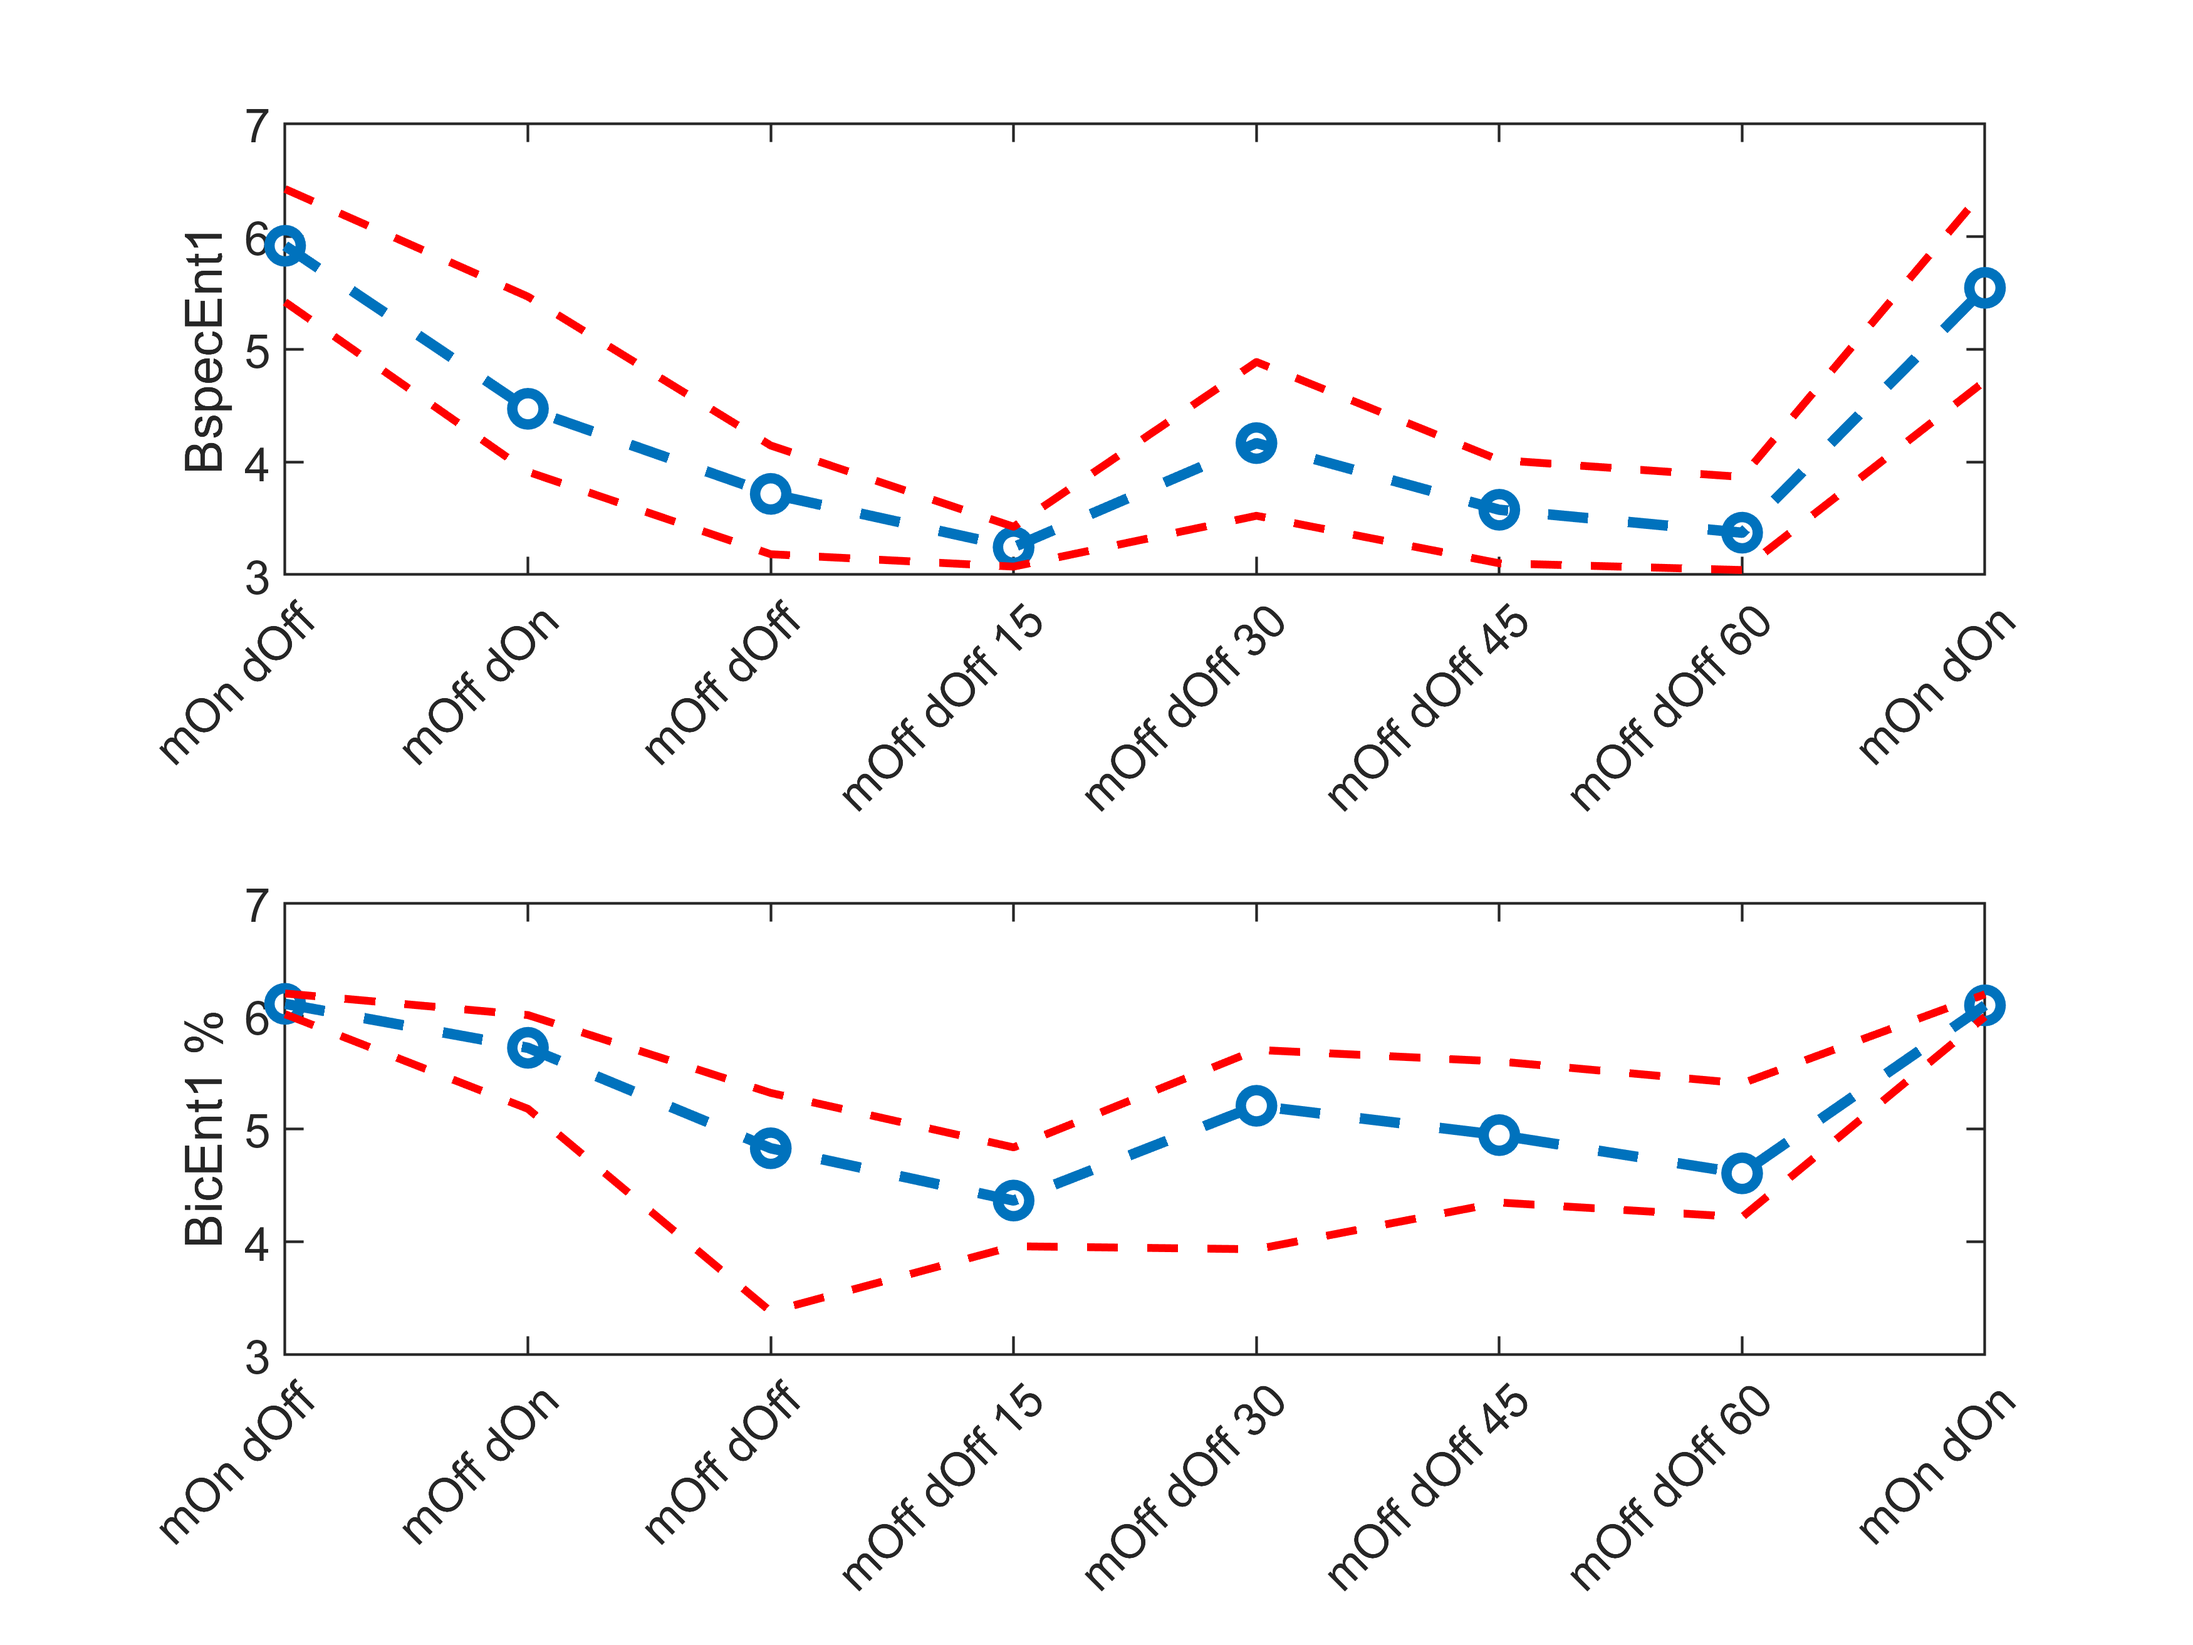
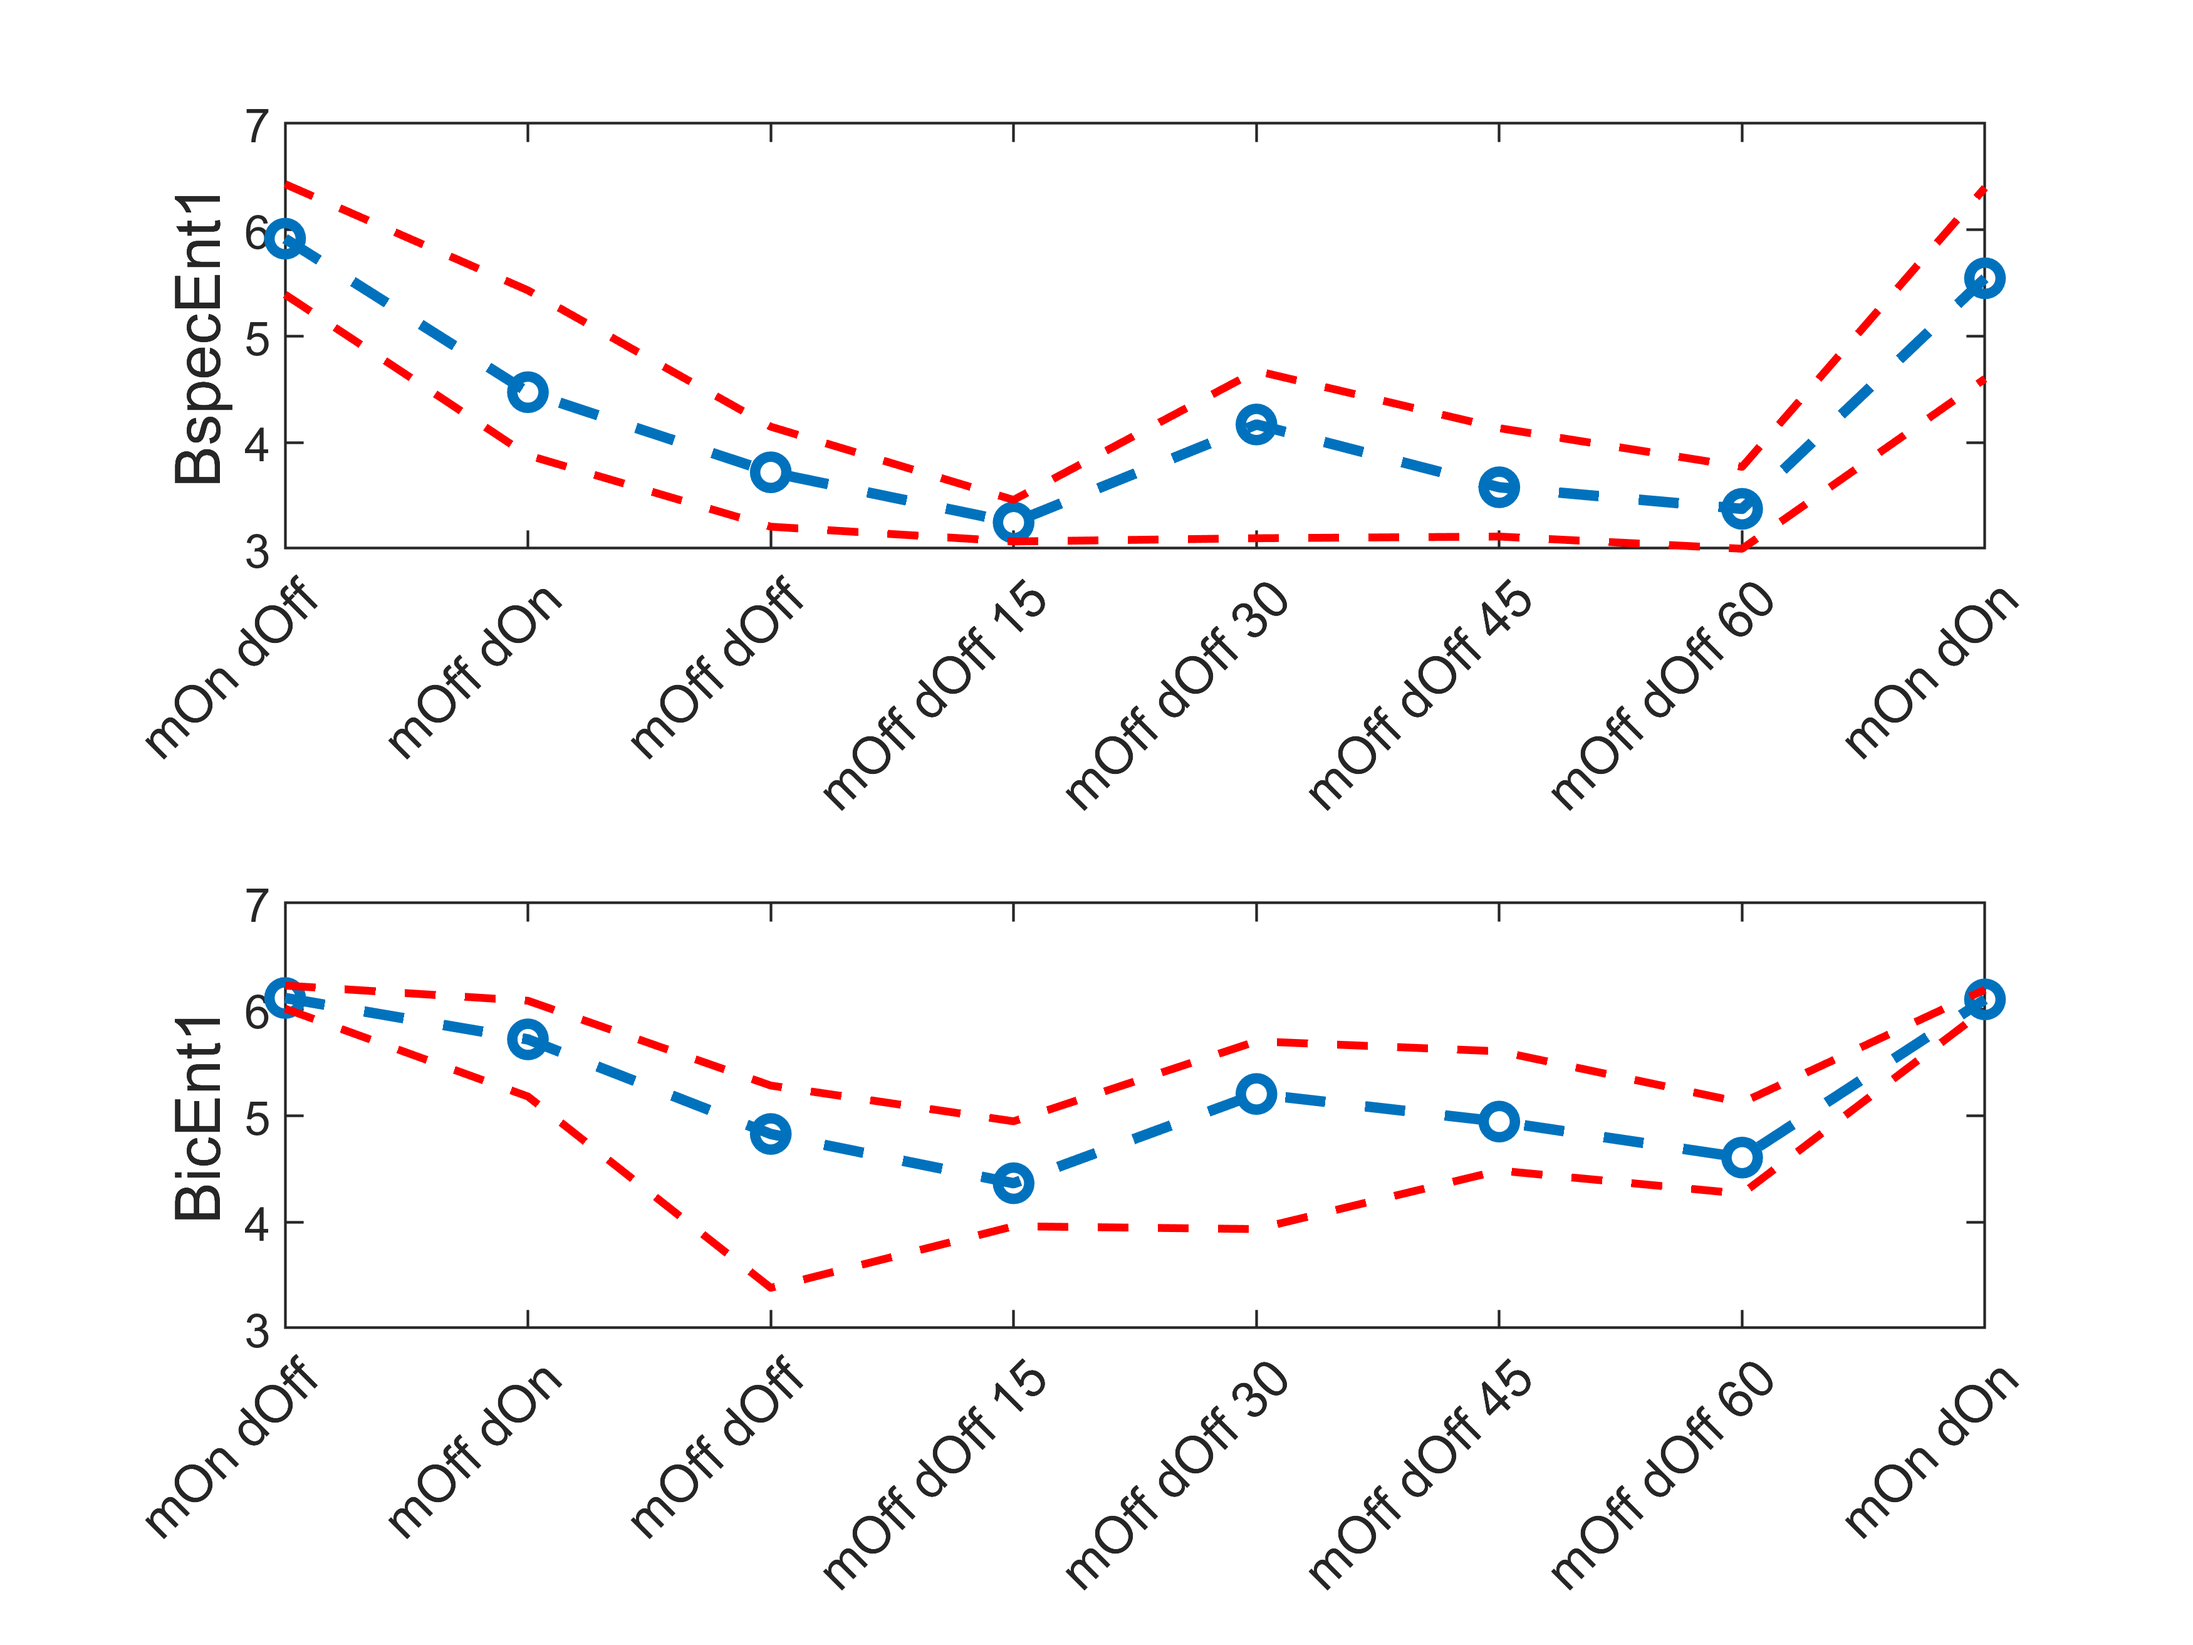
update

diff --git a/Feature Extraction/time_analysis.m b/Feature Extraction/time_analysis.m
@@ -1,0 +1,212 @@
+%% Bispectral Analysis of Parkinsonian Rest Tremor: New Characterization
+%% and Classification Insights Pre-/Post-DBS and Medication Treatment
+%
+% In this script the plots that illustrate the dynamic nature of the tremor as
+% presented through the extracted features (as shown in figure 5 of 
+% ( https://doi.org/10.36227/techrxiv.19589728.v1)), are extracted and saved.
+
+%-----------------------------------------------------------------------------------------------------------------
+% Authors: Charalampos Lamprou & Ioannis Ziogas
+% Copyright (C) 2022 Ioannis Ziogas and Charalampos Lamprou,SPBTU,ECE,AUTh
+%-----------------------------------------------------------------------------------------------------------------
+
+clc
+clear
+close all
+
+
+figstate = 'off'; % 'on' to open figures and 'off' otherwise
+savep = 0; % 1 to save figures and 0 otherwise
+alpha = 0.05; % The level of statistical significance
+vars = {'maxArea','totalArea','ellipse_similarity_ratio','noPeaks',...
+            'belongs46','power46','bspecEn12h8','bspecEn22h8','totalBic2h8',...
+            'bicEn12h8','bicEn22h8','mean_FFT_X','max_FFT_X','std_FFT_X'}; % The wanted features
+time_labels = {'mOn dOff','mOff dOn','mOff dOff','mOff dOff 15',...
+    'mOff dOff 30','mOff dOff 45','mOff dOff 60','mOn dOn'};
+
+
+for v = 1:length(vars)
+    selFeat = vars{1,v};
+    
+    dir1Name = ['time_plots_'];
+    if ~exist(dir1Name,'dir') 
+        mkdir(dir1Name); 
+        dir2Name = [dir1Name,'\',selFeat];
+        if ~exist(dir2Name,'dir')
+            mkdir(dir2Name);
+        end
+    else
+        dir2Name = [dir1Name,'\',selFeat];
+        if ~exist(dir2Name,'dir')
+            mkdir(dir2Name);
+        end
+    end
+
+    
+    ron = readtable('Features_ron_.csv');
+    ref = readtable('Features_ref_.csv');
+    rof = readtable('Features_rof_.csv');
+    r15of = readtable('Features_r15of_.csv');
+    r30of = readtable('Features_r30of_.csv');
+    r45of = readtable('Features_r45of_.csv');
+    r60of = readtable('Features_r60of_.csv');
+    ren = readtable('Features_ren_.csv');
+
+    
+    ron([1,4],:) = [];%g1,s7 out
+    ref([1,4],:) = [];%g1,s7 out
+    ren([1,4],:) = [];%g1,s7 out
+    rof([3,5,6],:) = []; %s7,v4,v5 out 
+    r30of(3,:) = []; %s7 out
+    r60of(3,:) = []; %s7 out
+
+    sf = [];
+    sf = [sf ;table2array(ron(:,selFeat))];
+    sf = [sf ;table2array(ref(:,selFeat))];
+    sf = [sf ;table2array(rof(:,selFeat))];
+    sf = [sf ;table2array(r15of(:,selFeat))];
+    sf = [sf ;table2array(r30of(:,selFeat))];
+    sf = [sf ;table2array(r45of(:,selFeat))];
+    sf = [sf ;table2array(r60of(:,selFeat))];
+    sf = [sf ;table2array(r60of(:,selFeat))];
+    
+    maxF = max(sf);
+    minF = min(sf);
+    
+    names = rof.Properties.VariableNames;
+    rowNames = {'g2','s6','s8','g10','g11','g12','g13','g9','s14','s15','s16'};
+    ron.Properties.RowNames = rowNames; ref.Properties.RowNames = rowNames;
+    rof.Properties.RowNames = rowNames; r15of.Properties.RowNames = rowNames;
+    r30of.Properties.RowNames = rowNames; r45of.Properties.RowNames = rowNames;
+    r60of.Properties.RowNames = rowNames; ren.Properties.RowNames = rowNames;
+
+    condStruct.ron = ron; condStruct.ref = ref; condStruct.rof = rof;
+    condStruct.r15of = r15of; condStruct.r30of = r30of; condStruct.r45of = r45of;
+    condStruct.r60of = r60of; condStruct.ren = ren;
+
+    fnames = fieldnames(condStruct);
+
+    figure('Visible',figstate);
+    LnLList = [1,2,3,11];
+    msg = ['All LnL subjects, time evolution of feature ',selFeat];
+    tetempFeat = zeros(1,8);
+    for f = 1:length(fnames)
+        tempFeat = zeros(1,4);
+        for h = 1:length(LnLList)
+            tempFeat(h) = table2array(condStruct.(fnames{f,1})(rowNames{1,LnLList(h)},selFeat));
+        end    
+        ci = bootci(100,@mean,tempFeat);
+        cil(f) = ci(1);
+        ciu(f) = ci(2);
+        tetempFeat(f) = mean(tempFeat);
+    end
+    plot(tetempFeat,'LineStyle','--','LineWidth',1.5,'Marker','o')
+    hold on 
+    plot(cil,'LineStyle','--','LineWidth',1.5,'Color','r')
+    legend('mean','95 % CI','AutoUpdate','off')
+    hold on
+    plot(ciu,'LineStyle','--','LineWidth',1.5,'Color','r')
+    ylim([minF,maxF])
+    title(msg)
+    ylabel(selFeat)
+    xlabel('Conditions Time Evolution')
+    xticklabels(time_labels)
+    xtickangle(45)
+    if savep
+        saveas(gcf,[dir2Name,'\',msg,'.jpg'])
+    end
+    hold off
+    
+    figure('Visible',figstate);
+    HnLList = [4,5,6,7,8,9,10];
+    msg = ['All HnL subjects, time evolution of feature ',selFeat];
+    tetempFeat = zeros(1,8);
+    for f = 1:length(fnames)
+        tempFeat = zeros(1,7);
+        for h = 1:length(HnLList)
+            tempFeat(h) = table2array(condStruct.(fnames{f,1})(rowNames{1,HnLList(h)},selFeat));
+        end    
+        ci = bootci(100,@mean,tempFeat);
+        cil(f) = ci(1);
+        ciu(f) = ci(2);
+        tetempFeat(f) = mean(tempFeat);
+    end
+    plot(tetempFeat,'LineStyle','--','LineWidth',1.5,'Marker','o')
+    hold on 
+    plot(cil,'LineStyle','--','LineWidth',1.5,'Color','r')
+    legend('mean','95 % CI','AutoUpdate','off')
+    hold on
+    plot(ciu,'LineStyle','--','LineWidth',1.5,'Color','r')
+    ylim([minF,maxF])
+    title(msg)
+    ylabel(selFeat)
+    xlabel('Conditions Time Evolution')
+    xticklabels(time_labels)
+    xtickangle(45)
+    if savep
+        saveas(gcf,[dir2Name,'\',msg,'.jpg'])
+    end
+    hold off
+    
+    figure('Visible',figstate);
+    msg = ['All HAT subjects, time evolution of feature ',selFeat];
+    tetempFeat = zeros(1,8);
+    for f = 1:length(fnames)
+        tempFeat = zeros(1,3);
+        for h = 1:3
+            tempFeat(h) = table2array(condStruct.(fnames{f,1})(rowNames{1,h},selFeat));
+        end  
+        ci = bootci(100,@mean,tempFeat);
+        cil(f) = ci(1);
+        ciu(f) = ci(2);
+        tetempFeat(f) = mean(tempFeat);
+    end
+    plot(tetempFeat,'LineStyle','--','LineWidth',1.5,'Marker','o')
+    hold on 
+    plot(cil,'LineStyle','--','LineWidth',1.5,'Color','r')
+    legend('mean','95 % CI','AutoUpdate','off')
+    hold on
+    plot(ciu,'LineStyle','--','LineWidth',1.5,'Color','r')
+    ylim([minF,maxF])
+    title(msg)
+    ylabel(selFeat)
+    xlabel('Conditions Time Evolution')
+    xticklabels(time_labels)
+    xtickangle(45)
+    if savep
+        saveas(gcf,[dir2Name,'\',msg,'.jpg'])
+    end
+    hold off
+    
+    figure('Visible',figstate);
+    msg = ['All LAT subjects, time evolution of feature ',selFeat];
+    tetempFeat = zeros(1,8);
+    for f = 1:length(fnames)
+        tempFeat = zeros(1,8);
+        for h = 4:11
+            tempFeat(h) = table2array(condStruct.(fnames{f,1})(rowNames{1,h},selFeat));
+        end    
+        ci = bootci(100,@mean,tempFeat);
+        cil(f) = ci(1);
+        ciu(f) = ci(2);
+        tetempFeat(f) = mean(tempFeat);
+    end
+    plot(tetempFeat,'LineStyle','--','LineWidth',1.5,'Marker','o')
+    hold on 
+    plot(cil,'LineStyle','--','LineWidth',1.5,'Color','r')
+    legend('mean','95 % CI','AutoUpdate','off')
+    hold on
+    plot(ciu,'LineStyle','--','LineWidth',1.5,'Color','r')
+    ylim([minF,maxF])
+    title(msg)
+    ylabel(selFeat)
+    xlabel('Conditions Time Evolution')
+    xticklabels(time_labels)
+    xtickangle(45)
+    if savep
+        saveas(gcf,[dir2Name,'\',msg,'.jpg'])
+    end
+    hold off
+
+end
+
